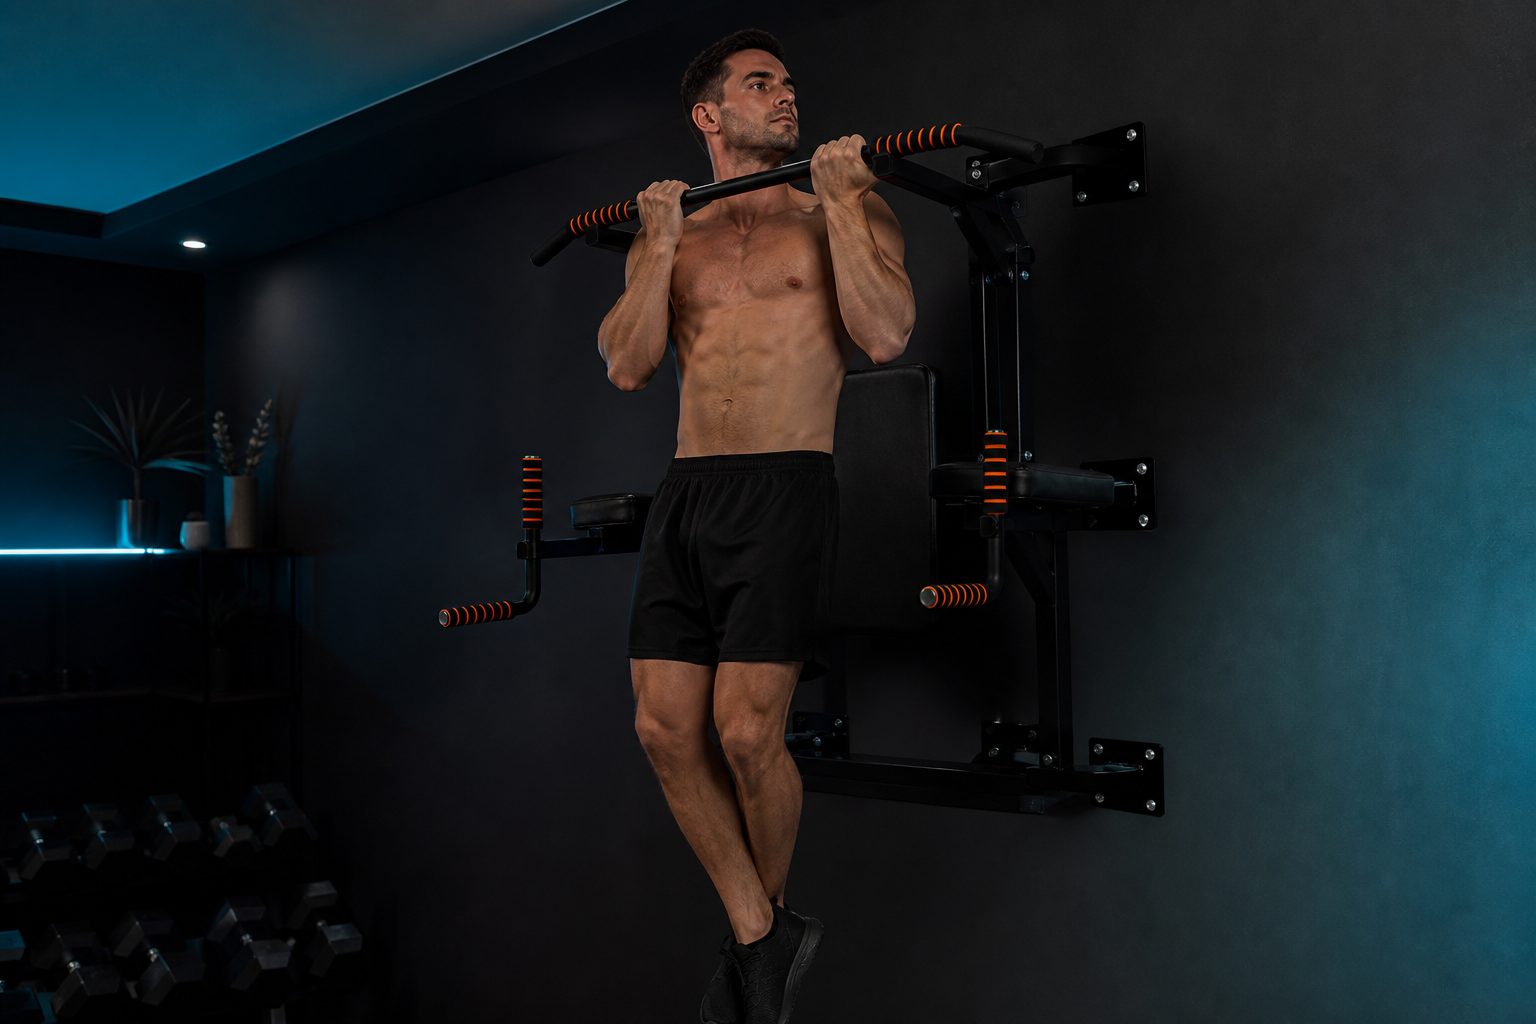
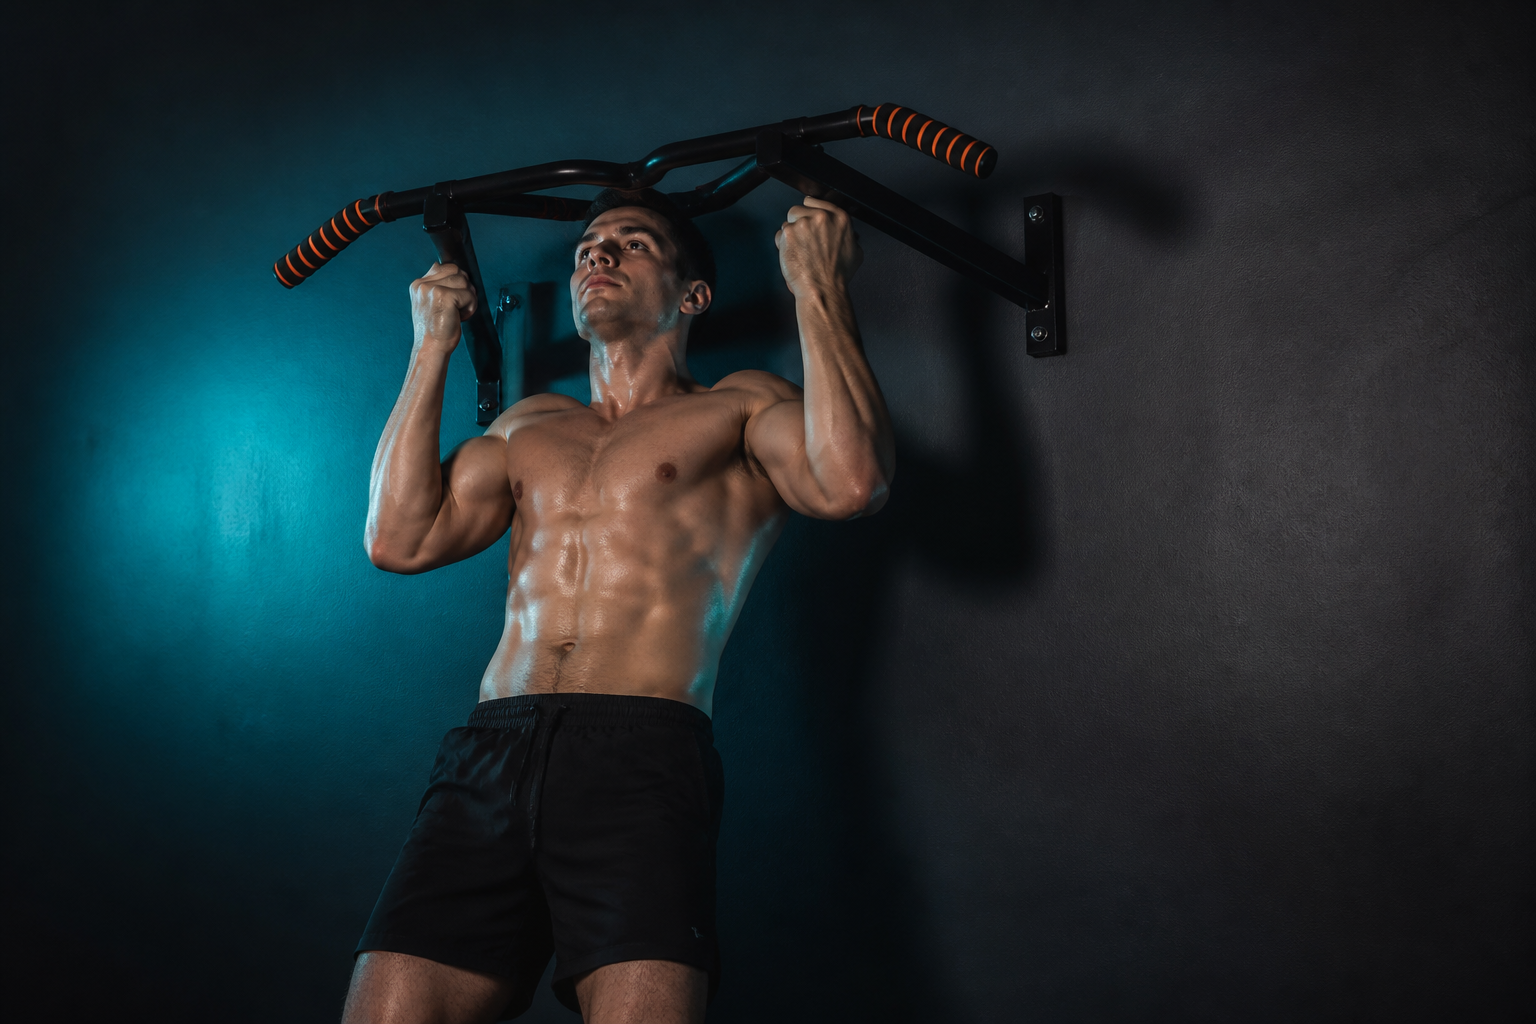
Correct BDL station copy for wall-hook flip model
Describe the single flip-and-remount piece (no floor posts), show the
pull-up vs dip flip graphic on Home, refresh exercise photos/cues for
hook-mount mechanics, and align README with Amazon B0838RJ978.

diff --git a/src/data/exercises.ts b/src/data/exercises.ts
@@ -371,9 +371,9 @@ export const exercises: Record<string, Exercise> = {
     equipment: ['pull-up-bar'],
     animationId: 'chin-up',
     muscles: ['lats', 'biceps'],
-    description: 'Supinated grip on the BDL multi-grip bar — usually easier than pull-ups for beginners.',
+    description: 'Supinated grip on the BDL multi-grip bar (pull-up orientation on the higher hooks) — usually easier than pull-ups for beginners.',
     cues: [
-      'Palms facing you on narrow or parallel grips, shoulder-width',
+      'With the station in pull-up orientation, palms facing you on narrow or parallel grips',
       'Pull elbows down, chest to bar',
       'Chin clears bar',
       'Full hang between reps',
@@ -385,11 +385,11 @@ export const exercises: Record<string, Exercise> = {
     equipment: ['pull-up-bar'],
     animationId: 'pull-up',
     muscles: ['lats', 'biceps', 'upper back'],
-    description: 'Pronated grip goal movement — use the BDL wide or parallel grips.',
+    description: 'Pronated grip goal movement — mount the BDL station in pull-up orientation on the higher wall hooks and use wide or parallel grips.',
     cues: [
+      'Confirm the station is flipped to pull-up orientation on the higher wall hooks',
       'Hands just outside shoulders on wide grips, palms away',
-      'Initiate with scapular depression',
-      'Pull until chin clears bar',
+      'Initiate with scapular depression; pull until chin clears bar',
       'Lower fully with control',
     ],
   },
@@ -399,9 +399,9 @@ export const exercises: Record<string, Exercise> = {
     equipment: ['pull-up-bar'],
     animationId: 'hanging-knee-raise',
     muscles: ['core', 'hip flexors', 'grip'],
-    description: 'Hanging core work on the BDL station — use free hang or the back pad + arm rests for supported raises.',
+    description: 'Hanging core work on the BDL station — free hang in pull-up orientation, or flip to dip hooks and use the back pad + arm rests for supported raises.',
     cues: [
-      'Dead hang or brace on arm rests against the back cushion',
+      'Dead hang from the multi-grip bar, or flip to dip hooks and brace on arm rests against the back cushion',
       'Raise knees toward chest',
       'Avoid swinging — control the descent',
       'Exhale as knees rise',
@@ -413,11 +413,11 @@ export const exercises: Record<string, Exercise> = {
     equipment: ['pull-up-bar'],
     animationId: 'dip',
     muscles: ['chest', 'triceps', 'shoulders'],
-    description: 'Parallel-bar style dip on the BDL forward dip handles — primary station pressing movement.',
+    description: 'Parallel-bar style dip on the BDL dip handles — flip the station onto the lower wall hooks first so the handles face forward.',
     cues: [
-      'Grip the forward dip handles, lock out arms, slight lean forward',
-      'Lower until upper arms are roughly parallel to the floor',
-      'Elbows track back alongside the torso — not flared wide',
+      'Flip and remount the BDL station on the dip / leg-raise hooks so the parallel handles face out',
+      'Grip the dip handles, lock out arms, slight lean forward',
+      'Lower until upper arms are roughly parallel to the floor; elbows track back, not flared',
       'Press up to full lockout; use a band under the knees if needed',
     ],
   },
@@ -427,9 +427,9 @@ export const exercises: Record<string, Exercise> = {
     equipment: ['pull-up-bar'],
     animationId: 'hanging-knee-raise',
     muscles: ['core', 'hip flexors'],
-    description: 'Knee raises braced on the BDL back cushion and arm rests — easier on grip than free hang.',
+    description: 'Knee raises braced on the BDL back cushion and arm rests — flip to dip / leg-raise hooks first; easier on grip than free hang.',
     cues: [
-      'Forearms on the arm rests, back against the pad',
+      'Flip to dip / leg-raise hooks; forearms on the arm rests, back against the pad',
       'Brace core, raise knees toward chest',
       'Avoid swinging or leaning hard into the pad',
       'Lower with control',

diff --git a/src/pages/Home.tsx b/src/pages/Home.tsx
@@ -82,27 +82,41 @@ export function Home() {
           href="https://a.co/d/0ar2Fena"
           target="_blank"
           rel="noopener noreferrer"
-          className="mt-3 flex gap-3 overflow-hidden rounded-xl border border-cyan-500/20 bg-gradient-to-br from-cyan-500/10 via-slate-900/40 to-transparent p-3 transition hover:border-cyan-400/40"
+          className="mt-3 block overflow-hidden rounded-xl border border-cyan-500/20 bg-gradient-to-br from-cyan-500/10 via-slate-900/40 to-transparent transition hover:border-cyan-400/40"
         >
+          <div className="flex gap-3 p-3">
+            <img
+              src={`${import.meta.env.BASE_URL}kit/bdl-station.png`}
+              alt="BDL wall-mounted pull-up and dip station on hooks"
+              className="h-24 w-20 shrink-0 rounded-lg object-cover ring-1 ring-white/10 sm:h-28 sm:w-24"
+              loading="lazy"
+              decoding="async"
+            />
+            <div className="min-w-0 flex-1">
+              <p className="text-sm font-semibold text-white">BDL wall pull-up + dip station</p>
+              <p className="mt-0.5 text-[10px] uppercase tracking-wider text-cyan-400/80">
+                Featured hardware · Amazon
+              </p>
+              <p className="mt-2 text-xs leading-relaxed text-slate-400">
+                One black-steel piece that hangs on wall hooks only — flip and remount at different
+                hook heights for pull-ups vs dips / leg raises. Orange-and-black spiral grips, arm
+                pads, back cushion, multi-grip bar, dip handles, and accessory rings. No floor posts
+                or rack rails.
+              </p>
+            </div>
+          </div>
           <img
-            src={`${import.meta.env.BASE_URL}kit/bdl-station.png`}
-            alt="BDL wall pull-up and dip station"
-            className="h-24 w-20 shrink-0 rounded-lg object-cover ring-1 ring-white/10 sm:h-28 sm:w-24"
+            src={`${import.meta.env.BASE_URL}kit/bdl-flip-modes.png`}
+            alt="Flip between pull-up bar and dip station orientations on wall hooks"
+            className="w-full border-t border-white/5 object-cover object-top"
             loading="lazy"
             decoding="async"
           />
-          <div className="min-w-0 flex-1">
-            <p className="text-sm font-semibold text-white">BDL wall pull-up + dip station</p>
-            <p className="mt-0.5 text-[10px] uppercase tracking-wider text-cyan-400/80">
-              Featured hardware · Amazon
-            </p>
-            <ul className="mt-2 space-y-1 text-xs text-slate-400">
-              <li className="flex gap-2"><Bullet /> Multi-grip pulls (wide / parallel / narrow)</li>
-              <li className="flex gap-2"><Bullet /> Forward dip handles for station dips</li>
-              <li className="flex gap-2"><Bullet /> Back-pad + arm rests for knee raises</li>
-              <li className="flex gap-2"><Bullet /> Band / TRX suspension anchors · 440 lb</li>
-            </ul>
-          </div>
+          <ul className="space-y-1 border-t border-white/5 px-3 py-2.5 text-xs text-slate-400">
+            <li className="flex gap-2"><Bullet /> Flip + remount on higher hooks for multi-grip pull-ups</li>
+            <li className="flex gap-2"><Bullet /> Flip to lower hooks for dip handles + supported leg raises</li>
+            <li className="flex gap-2"><Bullet /> Band / ring anchors · rated ~440 lb</li>
+          </ul>
         </a>
 
         <ul className="mt-3 space-y-2 text-sm text-slate-400">

diff --git a/src/data/plan.ts b/src/data/plan.ts
@@ -113,7 +113,7 @@ export const plan: PlanDay[] = [
     ],
     main: [
       { exerciseId: 'bar-knee-push-up', sets: 3, restSec: 60, reps: 10 },
-      { exerciseId: 'bar-dip', sets: 2, restSec: 75, reps: 5, notes: 'BDL forward handles — band under knees OK' },
+      { exerciseId: 'bar-dip', sets: 2, restSec: 75, reps: 5, notes: 'Flip to dip hooks first — band under knees OK' },
       { exerciseId: 'band-press', sets: 3, restSec: 60, reps: 12, bandSuggestion: 'medium' },
       { exerciseId: 'bar-pike-push-up', sets: 3, restSec: 75, reps: 6, notes: 'Small range OK — quality over depth' },
       { exerciseId: 'band-good-morning', sets: 2, restSec: 45, reps: 12, bandSuggestion: 'light' },

diff --git a/README.md b/README.md
@@ -5,9 +5,9 @@ A polished **Vite + React + TypeScript + Tailwind CSS** progressive web app for 
 ## Equipment (only)
 
 - Yoga mat
-- Flor push-up bars
+- Floor push-up bars
 - Resistance bands (light / medium / heavy)
-- Wall-mounted pull-up / chin-up bar (BDL)
+- **BDL wall-hook pull-up / dip station** ([Amazon](https://a.co/d/0ar2Fena)) — one black-steel piece that **flips and remounts** on different wall-hook heights for pull-up orientation vs dip / leg-raise orientation. Hangs on wall hooks only (no floor-standing posts or power-rack rails). Orange-and-black spiral grips, arm pads, back cushion, multi-grip bar, dip handles, accessory rings.
 
 No other gear is programmed into the plan.
 
@@ -24,8 +24,8 @@ No other gear is programmed into the plan.
 ## Assumptions
 
 - You can get into a basic plank and hang from a bar for a few seconds
-- Your wall bar (BDL) is securely mounted and rated for dynamic bodyweight use
-- Bands can be looped over the pull-up bar for assistance and lat pulldowns
+- Your BDL station is hung on securely installed wall hooks and rated for dynamic bodyweight use; flip/remount between pull-up and dip hook heights as needed
+- Bands can be looped over the multi-grip bar (pull-up orientation) for assistance and lat pulldowns
 - Progress is tracked in localStorage on the device (no account / backend)
 - Pain is not progress - skip or regress any movement that hurts joints
 
